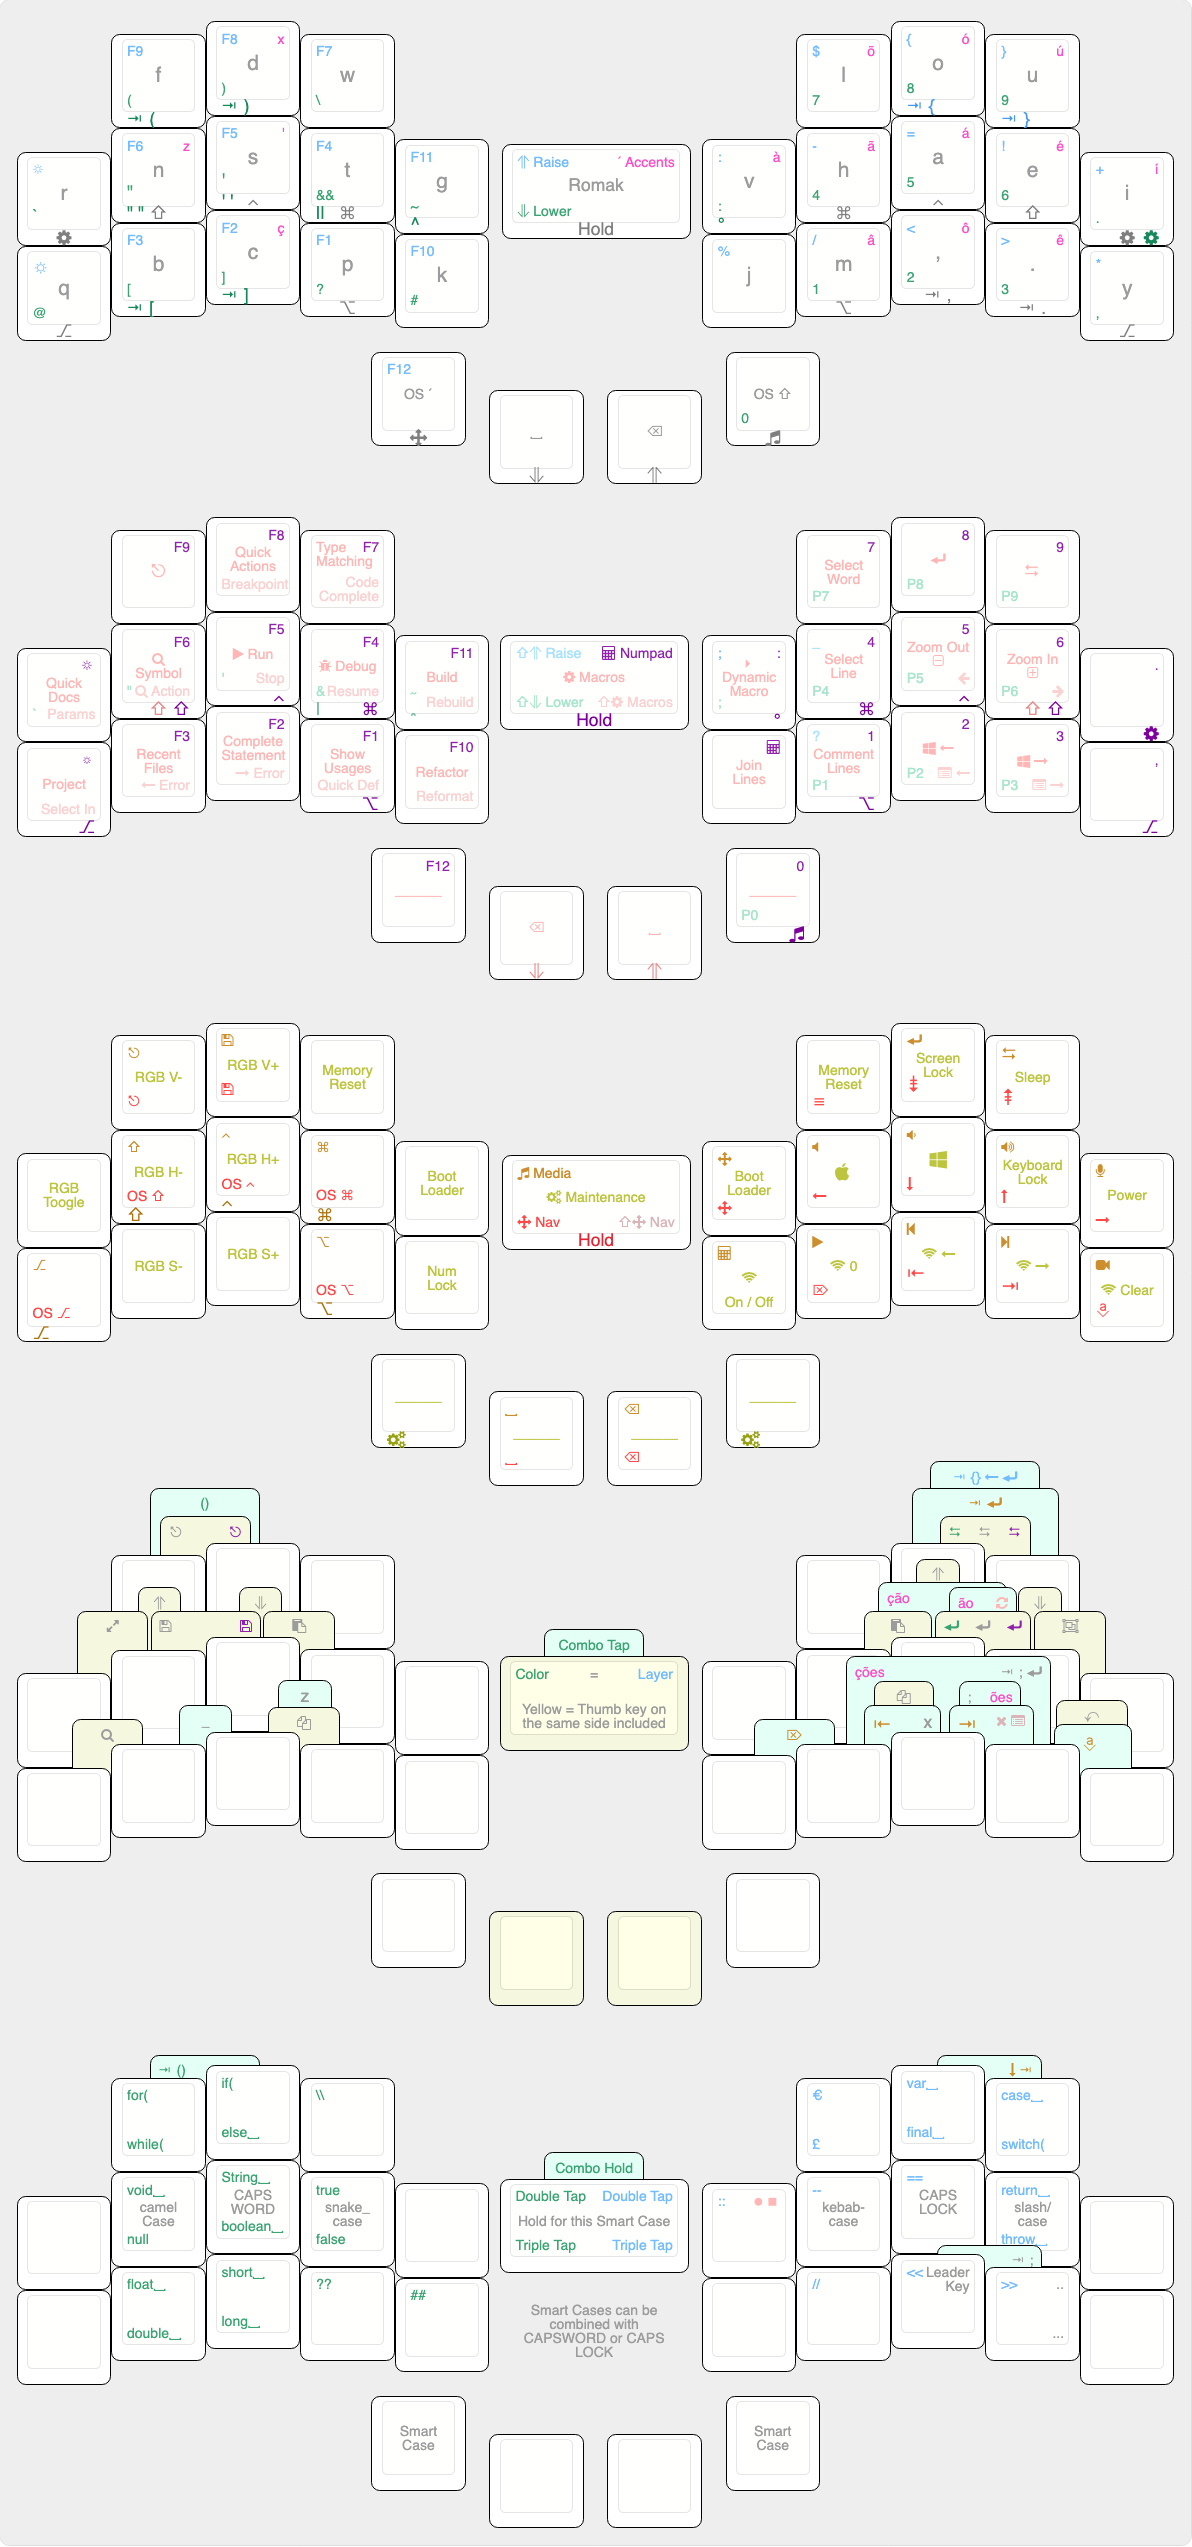
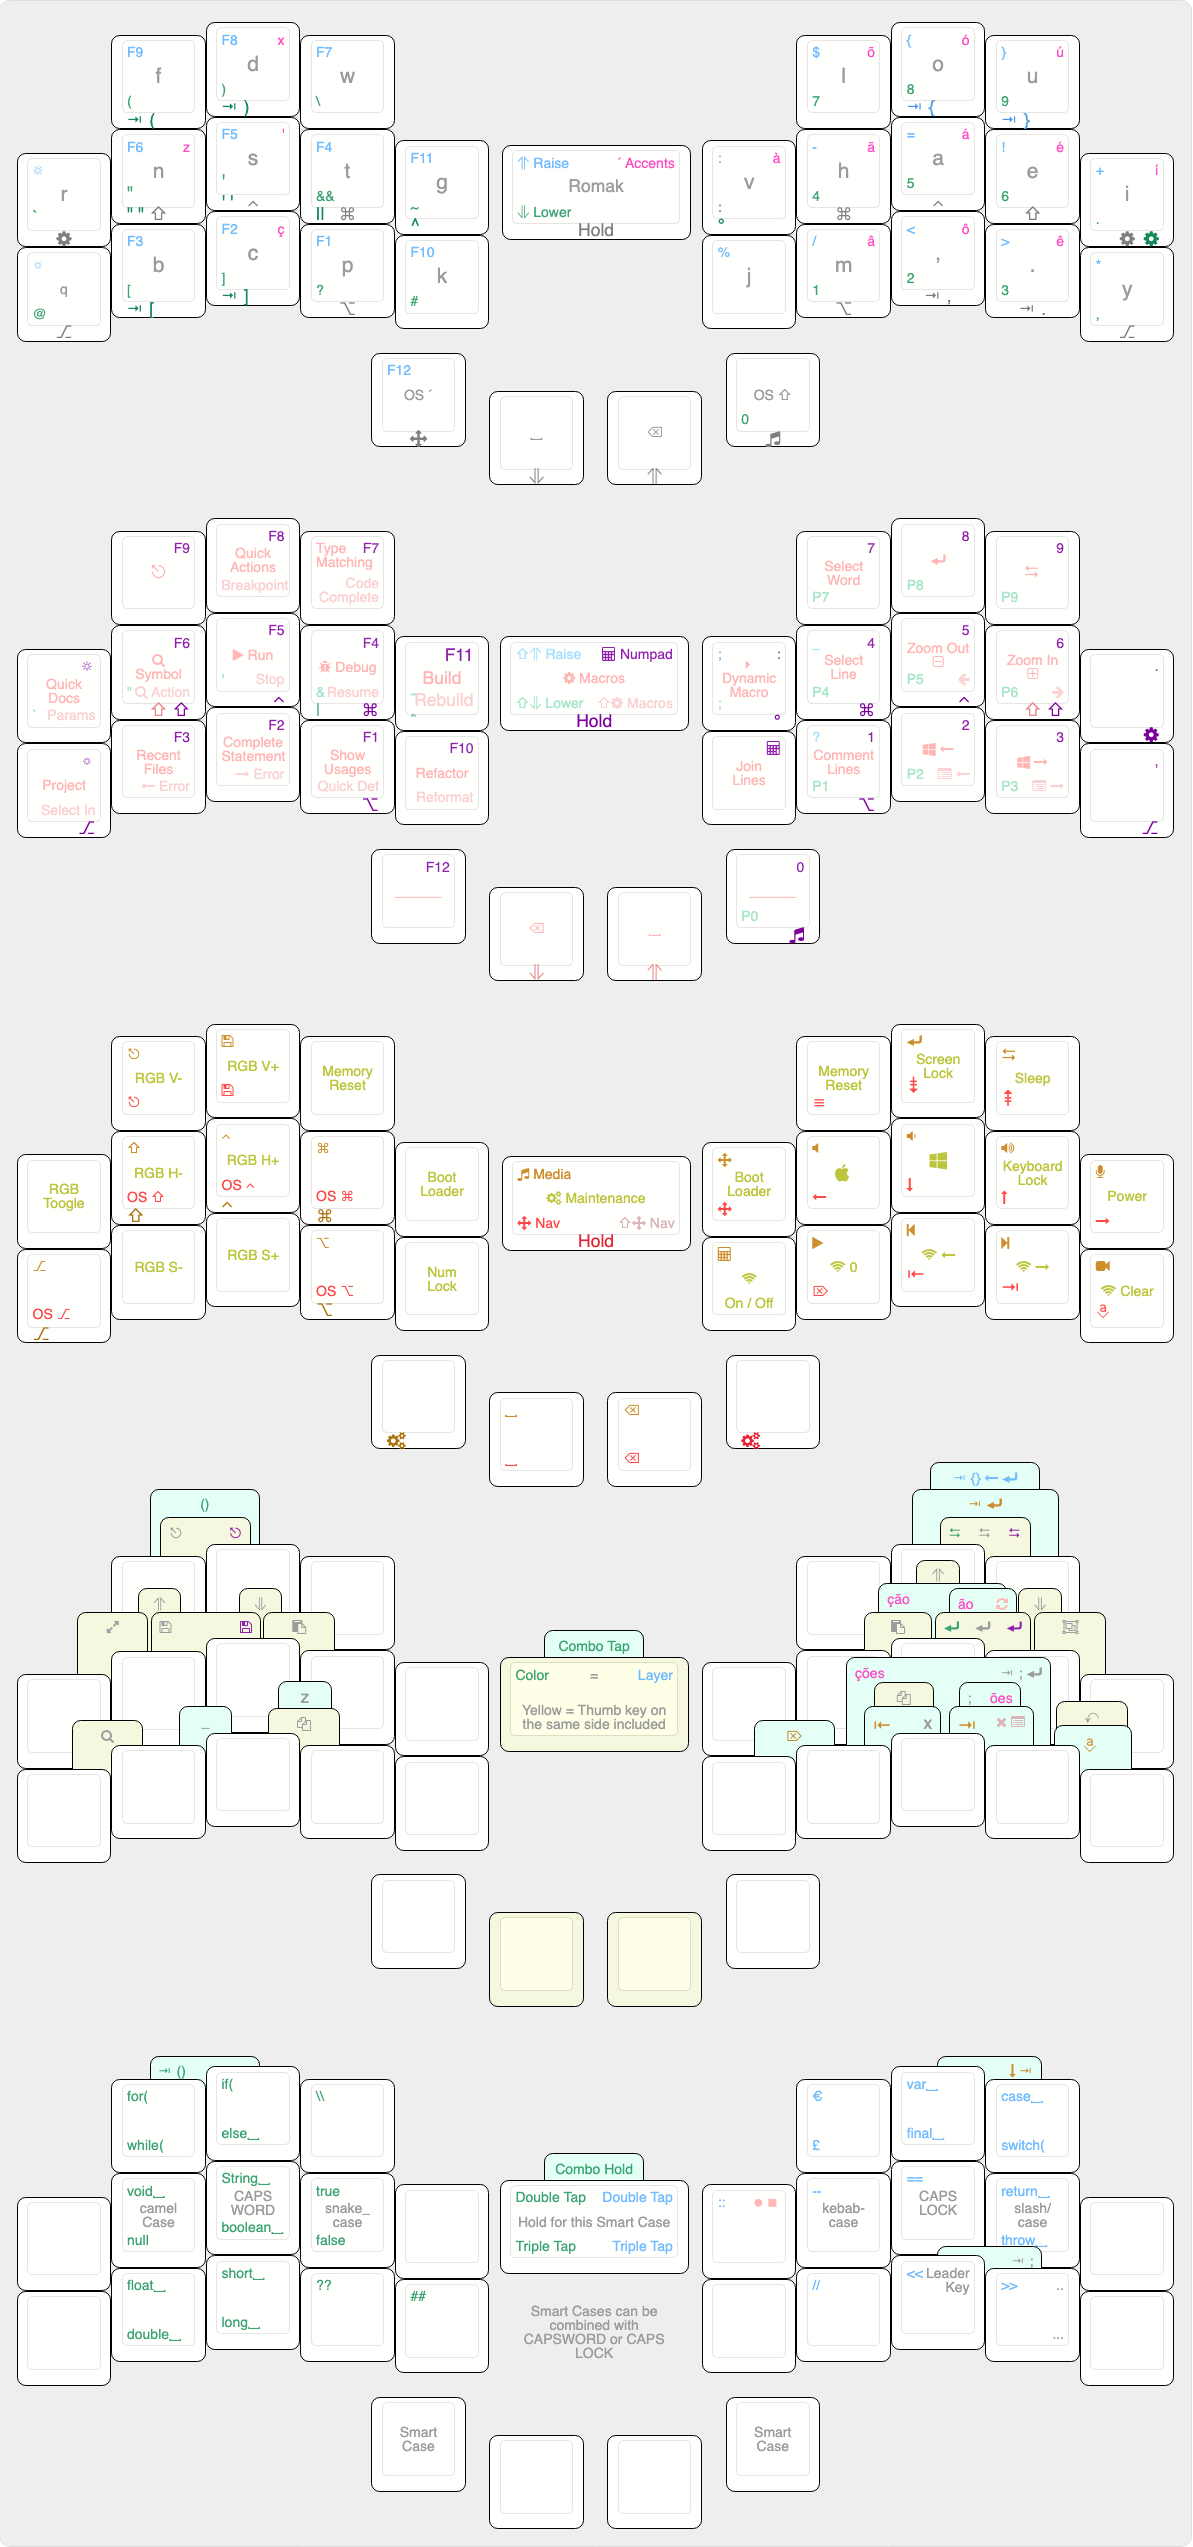
update KLE

diff --git a/src/qmk/users/rafaelromao/definitions/keymap_blocks.h b/src/qmk/users/rafaelromao/definitions/keymap_blocks.h
@@ -89,12 +89,12 @@
 #define ___________________MAINTENANCE_L1______________ XXXXXXX , RGB_VAD , RGB_VAI , EEP_RST , XXXXXXX
 #define ___________________MAINTENANCE_L2______________ RGB_TOG , RGB_HUD , RGB_HUI , XXXXXXX , QK_BOOT
 #define ___________________MAINTENANCE_L3______________ XXXXXXX , RGB_SAD , RGB_SAI , XXXXXXX , KC_NUM
-#define __MAINTENANCE_L4_                                                             _______ , _______
+#define __MAINTENANCE_L4_                                                             XXXXXXX , XXXXXXX
 
 #define ___________________MAINTENANCE_R1______________ XXXXXXX , EEP_RST , MC_LOCK , KC_SLEP , XXXXXXX
 #define ___________________MAINTENANCE_R2______________ QK_BOOT , TG_MAC  , TG_WIN  , TG_LOCK , KC_PWR
 #define ___________________MAINTENANCE_R3______________ XXXXXXX , XXXXXXX , XXXXXXX , XXXXXXX , XXXXXXX
-#define __MAINTENANCE_R4_                               _______ , _______
+#define __MAINTENANCE_R4_                               XXXXXXX , XXXXXXX
 
 #define _______________________LOCK____L1______________ XXXXXXX , XXXXXXX , XXXXXXX , XXXXXXX , XXXXXXX
 #define _______________________LOCK____L2______________ XXXXXXX , XXXXXXX , XXXXXXX , XXXXXXX , XXXXXXX
